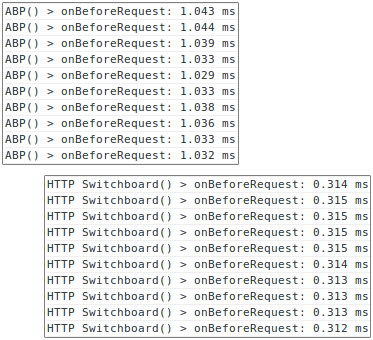
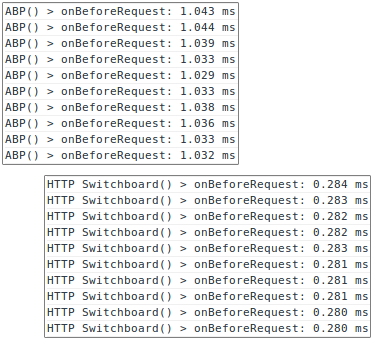
performance

Changed region(s): [[0.8847, 0.6765, 0.9437, 0.8824], [0.8847, 0.5294, 0.9437, 0.6471], [0.8847, 0.9118, 0.9437, 1.0]]

diff --git a/js/abp-filters.js b/js/abp-filters.js
@@ -679,6 +679,9 @@ var FilterContainer = function() {
     this.supportedFilterCount = 0;
     this.allowFilterCount = 0;
     this.blockFilterCount = 0;
+
+    // Used during URL matching
+    this.categoryBuckets = new Array(8);
 };
 
 /******************************************************************************/
@@ -1048,11 +1051,7 @@ FilterContainer.prototype.freeze = function() {
 
 /******************************************************************************/
 
-FilterContainer.prototype.matchToken = function(category) {
-    var categoryBucket = this.categories[this.makeCategoryKey(category)];
-    if ( categoryBucket === undefined ) {
-        return false;
-    }
+FilterContainer.prototype.matchToken = function(categoryBucket) {
     var url = this.url;
     var beg = this.tokenBeg;
     var end = this.tokenEnd;
@@ -1127,32 +1126,44 @@ FilterContainer.prototype.matchString = function(pageStats, url, requestType, re
         ThirdParty;
     var domainParty = this.toDomainBits(pageDomain);
     var type = typeNameToTypeValue[requestType];
-    var bf = false;
 
     // This will be used by hostname-based filter
     pageHostname = pageStats.pageHostname;
 
+    var categories = this.categories;
+    var categoryBuckets = this.categoryBuckets;
+    var i, categoryBucket;
+
     // Test against block filters
+    categoryBuckets[7] = categories[this.makeCategoryKey(BlockAnyTypeAnyParty)];
+    categoryBuckets[6] = categories[this.makeCategoryKey(BlockAnyType | party)];
+    categoryBuckets[5] = categories[this.makeCategoryKey(BlockAnyTypeOneParty | domainParty)];
+    categoryBuckets[4] = categories[this.makeCategoryKey(BlockAnyTypeOtherParties | domainParty)];
+    categoryBuckets[3] = categories[this.makeCategoryKey(BlockAnyParty | type)];
+    categoryBuckets[2] = categories[this.makeCategoryKey(BlockAction | type | party)];
+    categoryBuckets[1] = categories[this.makeCategoryKey(BlockOneParty | type | domainParty)];
+    categoryBuckets[0] = categories[this.makeCategoryKey(BlockOtherParties | type | domainParty)];
+
+    var bf = false;
+
     reAnyToken.lastIndex = 0;
     while ( matches = reAnyToken.exec(url) ) {
         this.tokenBeg = matches.index;
         this.tokenEnd = reAnyToken.lastIndex;
-        bf = this.matchToken(BlockAnyTypeAnyParty);
-        if ( bf !== false ) { break; }
-        bf = this.matchToken(BlockAnyType | party);
-        if ( bf !== false ) { break; }
-        bf = this.matchToken(BlockAnyTypeOneParty | domainParty);
-        if ( bf !== false ) { break; }
-        bf = this.matchToken(BlockAnyTypeOtherParties | domainParty);
-        if ( bf !== false ) { break; }
-        bf = this.matchToken(BlockAnyParty | type);
-        if ( bf !== false ) { break; }
-        bf = this.matchToken(BlockAction | type | party);
-        if ( bf !== false ) { break; }
-        bf = this.matchToken(BlockOneParty | type | domainParty);
-        if ( bf !== false ) { break; }
-        bf = this.matchToken(BlockOtherParties | type | domainParty);
-        if ( bf !== false ) { break; }
+        i = 8;
+        while ( i-- ) {
+            categoryBucket = categoryBuckets[i];
+            if ( categoryBucket === undefined ) {
+                continue;
+            }
+            bf = this.matchToken(categoryBucket);
+            if ( bf !== false ) {
+                break;
+            }
+        }
+		if ( bf !== false ) {
+			break;
+		}
     }
 
     // If there was no block filter, no need to test against allow filters
@@ -1161,26 +1172,29 @@ FilterContainer.prototype.matchString = function(pageStats, url, requestType, re
     }
 
     // Test against allow filters
+    categoryBuckets[7] = categories[this.makeCategoryKey(AllowAnyTypeAnyParty)];
+    categoryBuckets[6] = categories[this.makeCategoryKey(AllowAnyType | party)];
+    categoryBuckets[5] = categories[this.makeCategoryKey(AllowAnyTypeOneParty | domainParty)];
+    categoryBuckets[4] = categories[this.makeCategoryKey(AllowAnyTypeOtherParties | domainParty)];
+    categoryBuckets[3] = categories[this.makeCategoryKey(AllowAnyParty | type)];
+    categoryBuckets[2] = categories[this.makeCategoryKey(AllowAction | type | party)];
+    categoryBuckets[1] = categories[this.makeCategoryKey(AllowOneParty | type | domainParty)];
+    categoryBuckets[0] = categories[this.makeCategoryKey(AllowOtherParties | type | domainParty)];
+
     reAnyToken.lastIndex = 0;
     while ( matches = reAnyToken.exec(url) ) {
         this.tokenBeg = matches.index;
         this.tokenEnd = reAnyToken.lastIndex;
-        if ( this.matchToken(AllowAnyTypeAnyParty) !== false )
-            { return false; }
-        if ( this.matchToken(AllowAnyType | party) !== false )
-            { return false; }
-        if ( this.matchToken(AllowAnyTypeOneParty | domainParty) !== false )
-            { return false; }
-        if ( this.matchToken(AllowAnyTypeOtherParties | domainParty) !== false )
-            { return false; }
-        if ( this.matchToken(AllowAnyParty | type) !== false )
-            { return false; }
-        if ( this.matchToken(AllowAction | type | party) !== false )
-            { return false; }
-        if ( this.matchToken(AllowOneParty | type | domainParty) !== false )
-            { return false; }
-        if ( this.matchToken(AllowOtherParties | type | domainParty) !== false )
-            { return false; }
+        i = 8;
+        while ( i-- ) {
+            categoryBucket = categoryBuckets[i];
+            if ( categoryBucket === undefined ) {
+                continue;
+            }
+            if ( this.matchToken(categoryBucket) !== false ) {
+                return false;
+            }
+        }
     }
 
     return bf;
